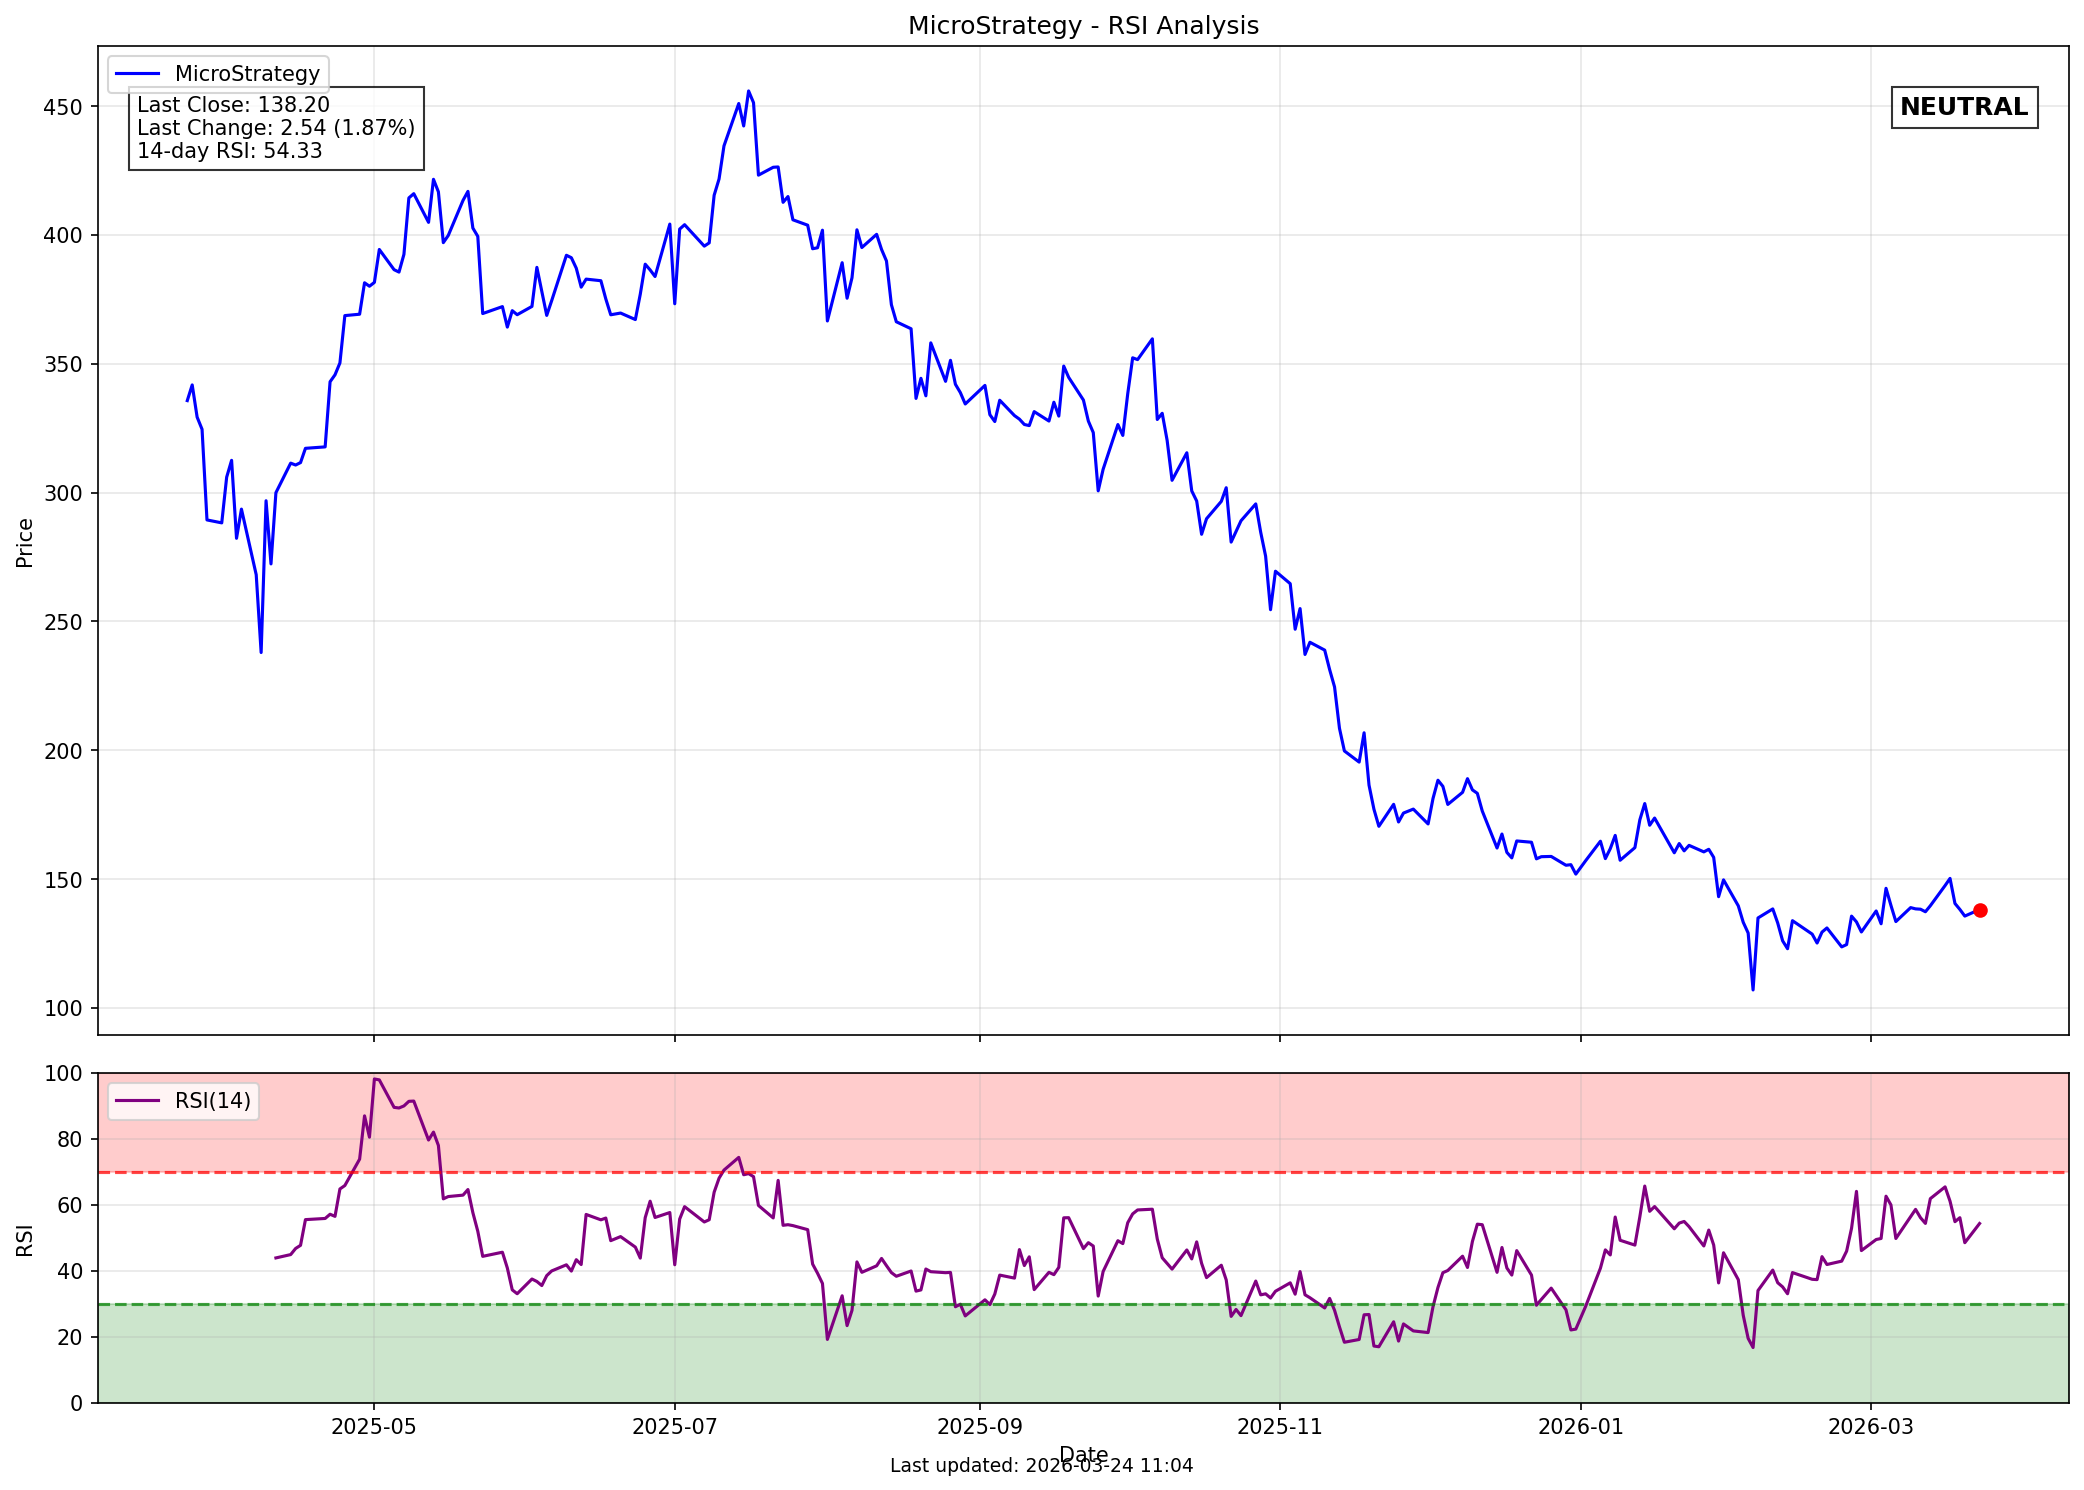
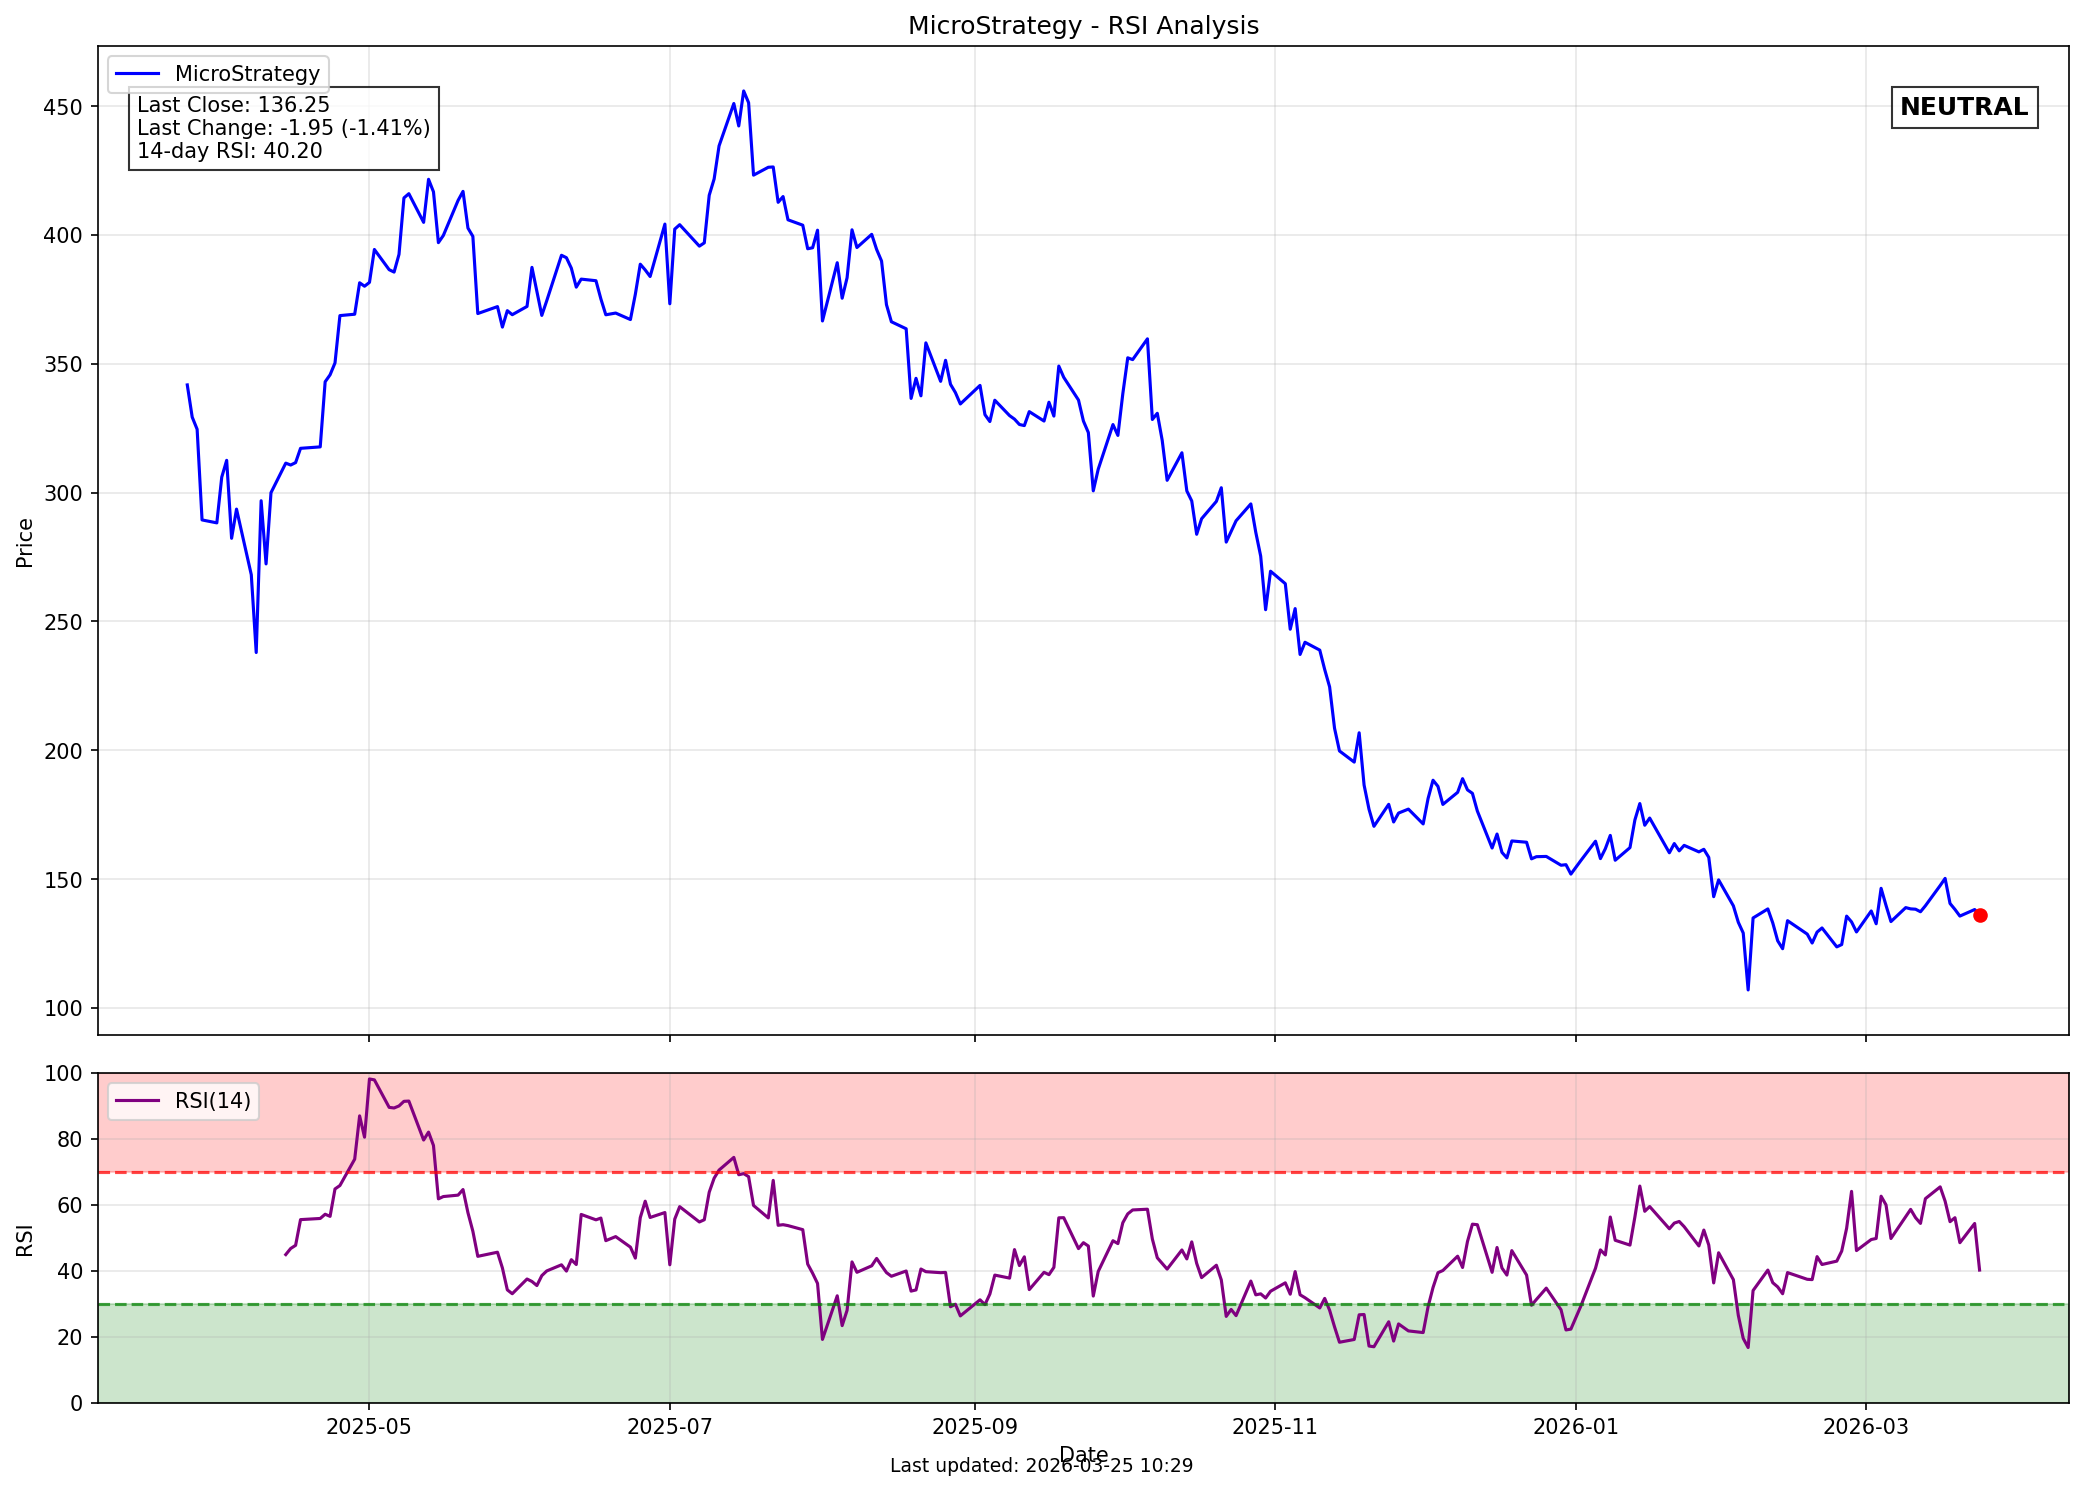
daily

diff --git a/overbought-oversold.html b/overbought-oversold.html
@@ -119,107 +119,152 @@
 </div>
 
 <div class="overbought-section">
-<h2>OVERBOUGHT - RSI > 70 (3 symbols)</h2>
+<h2>OVERBOUGHT - RSI > 70 (4 symbols)</h2>
 <p class="section-info">Assets with RSI above 70 may be overextended and potentially due for a correction.</p>
 <div class="chart-grid">
 
   <div class="chart-item">
-    <a href="./assets/images/chart_gallery/rsi/rsi_%25TNX.png" class="lightbox" title="10-Year Treasury Yield with 14-day RSI: 73.80">
+    <a href="./assets/images/chart_gallery/rsi/rsi_%25TNX.png" class="lightbox" title="10-Year Treasury Yield with 14-day RSI: 75.24">
       <img src="./assets/images/chart_gallery/rsi/rsi_%25TNX.png" alt="10-Year Treasury Yield RSI Chart">
     </a>
     <h3>10-Year Treasury Yield (<span class="rsi-status overbought">OVERBOUGHT</span>)</h3>
-    <p>RSI: 73.80</p>
+    <p>RSI: 75.24</p>
   </div>
 
 
   <div class="chart-item">
-    <a href="./assets/images/chart_gallery/rsi/rsi_%25FVX.png" class="lightbox" title="5-Year Treasury Yield with 14-day RSI: 71.64">
+    <a href="./assets/images/chart_gallery/rsi/rsi_&KC_CCB.png" class="lightbox" title="Coffee with 14-day RSI: 71.56">
+      <img src="./assets/images/chart_gallery/rsi/rsi_&KC_CCB.png" alt="Coffee RSI Chart">
+    </a>
+    <h3>Coffee (<span class="rsi-status overbought">OVERBOUGHT</span>)</h3>
+    <p>RSI: 71.56</p>
+  </div>
+
+
+  <div class="chart-item">
+    <a href="./assets/images/chart_gallery/rsi/rsi_%25FVX.png" class="lightbox" title="5-Year Treasury Yield with 14-day RSI: 73.21">
       <img src="./assets/images/chart_gallery/rsi/rsi_%25FVX.png" alt="5-Year Treasury Yield RSI Chart">
     </a>
     <h3>5-Year Treasury Yield (<span class="rsi-status overbought">OVERBOUGHT</span>)</h3>
-    <p>RSI: 71.64</p>
+    <p>RSI: 73.21</p>
   </div>
 
 
   <div class="chart-item">
-    <a href="./assets/images/chart_gallery/rsi/rsi_%25TYX.png" class="lightbox" title="30-Year Treasury Yield with 14-day RSI: 70.75">
+    <a href="./assets/images/chart_gallery/rsi/rsi_%25TYX.png" class="lightbox" title="30-Year Treasury Yield with 14-day RSI: 71.59">
       <img src="./assets/images/chart_gallery/rsi/rsi_%25TYX.png" alt="30-Year Treasury Yield RSI Chart">
     </a>
     <h3>30-Year Treasury Yield (<span class="rsi-status overbought">OVERBOUGHT</span>)</h3>
-    <p>RSI: 70.75</p>
+    <p>RSI: 71.59</p>
   </div>
 
 </div>
 </div>
 <div class="oversold-section">
-<h2>OVERSOLD - RSI < 30 (7 symbols)</h2>
+<h2>OVERSOLD - RSI < 30 (11 symbols)</h2>
 <p class="section-info">Assets with RSI below 30 may be undervalued and potentially due for a rebound.</p>
 <div class="chart-grid">
 
   <div class="chart-item">
-    <a href="./assets/images/chart_gallery/rsi/rsi_&GC_CCB.png" class="lightbox" title="Gold with 14-day RSI: 19.83">
+    <a href="./assets/images/chart_gallery/rsi/rsi_$SPX.png" class="lightbox" title="S&P 500 Index with 14-day RSI: 28.90">
+      <img src="./assets/images/chart_gallery/rsi/rsi_$SPX.png" alt="S&P 500 Index RSI Chart">
+    </a>
+    <h3>S&P 500 Index (<span class="rsi-status oversold">OVERSOLD</span>)</h3>
+    <p>RSI: 28.90</p>
+  </div>
+
+
+  <div class="chart-item">
+    <a href="./assets/images/chart_gallery/rsi/rsi_&GC_CCB.png" class="lightbox" title="Gold with 14-day RSI: 18.99">
       <img src="./assets/images/chart_gallery/rsi/rsi_&GC_CCB.png" alt="Gold RSI Chart">
     </a>
     <h3>Gold (<span class="rsi-status oversold">OVERSOLD</span>)</h3>
-    <p>RSI: 19.83</p>
+    <p>RSI: 18.99</p>
   </div>
 
 
   <div class="chart-item">
-    <a href="./assets/images/chart_gallery/rsi/rsi_$DJI.png" class="lightbox" title="Dow Jones Industrial Index with 14-day RSI: 28.69">
+    <a href="./assets/images/chart_gallery/rsi/rsi_$DJI.png" class="lightbox" title="Dow Jones Industrial Index with 14-day RSI: 24.97">
       <img src="./assets/images/chart_gallery/rsi/rsi_$DJI.png" alt="Dow Jones Industrial Index RSI Chart">
     </a>
     <h3>Dow Jones Industrial Index (<span class="rsi-status oversold">OVERSOLD</span>)</h3>
-    <p>RSI: 28.69</p>
+    <p>RSI: 24.97</p>
   </div>
 
 
   <div class="chart-item">
-    <a href="./assets/images/chart_gallery/rsi/rsi_$FT100.png" class="lightbox" title="FTSE 100 Index with 14-day RSI: 28.43">
+    <a href="./assets/images/chart_gallery/rsi/rsi_$FT100.png" class="lightbox" title="FTSE 100 Index with 14-day RSI: 27.77">
       <img src="./assets/images/chart_gallery/rsi/rsi_$FT100.png" alt="FTSE 100 Index RSI Chart">
     </a>
     <h3>FTSE 100 Index (<span class="rsi-status oversold">OVERSOLD</span>)</h3>
-    <p>RSI: 28.43</p>
+    <p>RSI: 27.77</p>
   </div>
 
 
   <div class="chart-item">
-    <a href="./assets/images/chart_gallery/rsi/rsi_$SSEC.png" class="lightbox" title="Shanghai Composite Index with 14-day RSI: 18.60">
-      <img src="./assets/images/chart_gallery/rsi/rsi_$SSEC.png" alt="Shanghai Composite Index RSI Chart">
+    <a href="./assets/images/chart_gallery/rsi/rsi_$DAX.png" class="lightbox" title="DAX Index with 14-day RSI: 29.37">
+      <img src="./assets/images/chart_gallery/rsi/rsi_$DAX.png" alt="DAX Index RSI Chart">
     </a>
-    <h3>Shanghai Composite Index (<span class="rsi-status oversold">OVERSOLD</span>)</h3>
-    <p>RSI: 18.60</p>
+    <h3>DAX Index (<span class="rsi-status oversold">OVERSOLD</span>)</h3>
+    <p>RSI: 29.37</p>
   </div>
 
 
   <div class="chart-item">
-    <a href="./assets/images/chart_gallery/rsi/rsi_&ZN_CCB.png" class="lightbox" title="10-Year T-Note with 14-day RSI: 27.05">
+    <a href="./assets/images/chart_gallery/rsi/rsi_&ES_CCB.png" class="lightbox" title="S&P 500 E-mini with 14-day RSI: 28.85">
+      <img src="./assets/images/chart_gallery/rsi/rsi_&ES_CCB.png" alt="S&P 500 E-mini RSI Chart">
+    </a>
+    <h3>S&P 500 E-mini (<span class="rsi-status oversold">OVERSOLD</span>)</h3>
+    <p>RSI: 28.85</p>
+  </div>
+
+
+  <div class="chart-item">
+    <a href="./assets/images/chart_gallery/rsi/rsi_&ZN_CCB.png" class="lightbox" title="10-Year T-Note with 14-day RSI: 25.40">
       <img src="./assets/images/chart_gallery/rsi/rsi_&ZN_CCB.png" alt="10-Year T-Note RSI Chart">
     </a>
     <h3>10-Year T-Note (<span class="rsi-status oversold">OVERSOLD</span>)</h3>
-    <p>RSI: 27.05</p>
+    <p>RSI: 25.40</p>
   </div>
 
 
   <div class="chart-item">
-    <a href="./assets/images/chart_gallery/rsi/rsi_&SI_CCB.png" class="lightbox" title="Silver with 14-day RSI: 25.61">
+    <a href="./assets/images/chart_gallery/rsi/rsi_&SI_CCB.png" class="lightbox" title="Silver with 14-day RSI: 26.42">
       <img src="./assets/images/chart_gallery/rsi/rsi_&SI_CCB.png" alt="Silver RSI Chart">
     </a>
     <h3>Silver (<span class="rsi-status oversold">OVERSOLD</span>)</h3>
-    <p>RSI: 25.61</p>
+    <p>RSI: 26.42</p>
   </div>
 
 
   <div class="chart-item">
-    <a href="./assets/images/chart_gallery/rsi/rsi_MSFT.png" class="lightbox" title="Microsoft with 14-day RSI: 27.44">
+    <a href="./assets/images/chart_gallery/rsi/rsi_&HG_CCB.png" class="lightbox" title="Copper with 14-day RSI: 29.29">
+      <img src="./assets/images/chart_gallery/rsi/rsi_&HG_CCB.png" alt="Copper RSI Chart">
+    </a>
+    <h3>Copper (<span class="rsi-status oversold">OVERSOLD</span>)</h3>
+    <p>RSI: 29.29</p>
+  </div>
+
+
+  <div class="chart-item">
+    <a href="./assets/images/chart_gallery/rsi/rsi_MSFT.png" class="lightbox" title="Microsoft with 14-day RSI: 20.69">
       <img src="./assets/images/chart_gallery/rsi/rsi_MSFT.png" alt="Microsoft RSI Chart">
     </a>
     <h3>Microsoft (<span class="rsi-status oversold">OVERSOLD</span>)</h3>
-    <p>RSI: 27.44</p>
+    <p>RSI: 20.69</p>
+  </div>
+
+
+  <div class="chart-item">
+    <a href="./assets/images/chart_gallery/rsi/rsi_META.png" class="lightbox" title="Meta with 14-day RSI: 24.14">
+      <img src="./assets/images/chart_gallery/rsi/rsi_META.png" alt="Meta RSI Chart">
+    </a>
+    <h3>Meta (<span class="rsi-status oversold">OVERSOLD</span>)</h3>
+    <p>RSI: 24.14</p>
   </div>
 
 </div>
 </div>
-<p class="last-updated">Last updated: 2026-03-24 11:05</p>
+<p class="last-updated">Last updated: 2026-03-25 10:31</p>
 </body>
 </html>